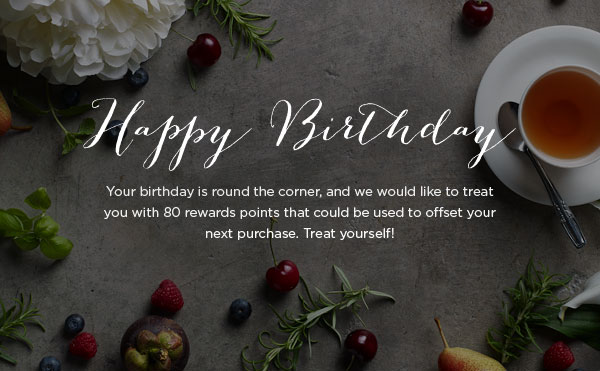
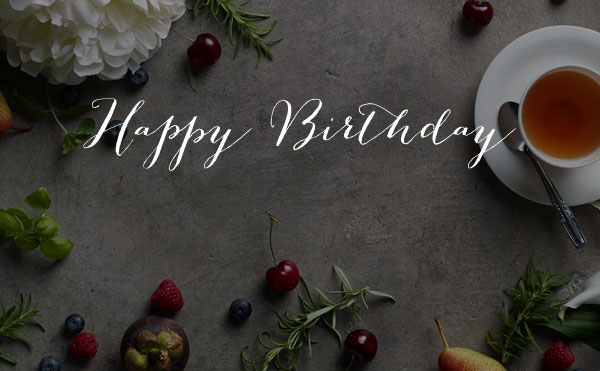
changes for emailer

Changed region(s): [[0.15, 0.504, 0.84, 0.6523]]

diff --git a/newmagento/app/locale/en_US/template/email/newsletter_subscr_confirm.html b/newmagento/app/locale/en_US/template/email/newsletter_subscr_confirm.html
@@ -1,4 +1,4 @@
-<!--@subject Newsletter subscription confirmation @-->
+<!--@subject Gryphon Tea Newsletters: Please Confirm Subscription @-->
 <!--@vars
 {"store url=\"\"":"Store Url",
 "var logo_url":"Email Logo Image Url",
@@ -24,7 +24,7 @@
                             <tr>
                                 <td class="padding-copy">
                                     <a href="#" target="_blank">
-                                        <img src="http://gryphontea.com/emailer/images/hero-subscribe-2.jpg" width="600" height="400" border="0" alt="Insert alt text here" style="display: block; color: #666666; font-family: Helvetica, arial, sans-serif; font-size: 16px; line-height: 20px;" class="img-max">
+                                        <img src="http://www.gryphontea.com/emailer/images/hero-subscribe-2.jpg" width="600" height="400" border="0" alt="Insert alt text here" style="display: block; color: #666666; font-family: Helvetica, arial, sans-serif; font-size: 16px; line-height: 20px;" class="img-max">
                                     </a>
                                 </td>
                             </tr>
@@ -36,8 +36,10 @@
                                             <td align="center" style="padding: 25px 0 0 0;" class="padding-copy">
                                                 <h2 style="font-family: 'Gotham-Medium', Tahoma, Helvetica, Arial, sans-serif; font-size: 14px; font-style:normal; font-weight:normal; line-height:20px; letter-spacing:0.03em; text-align:center; text-transform:uppercase; color: #252525; padding-top: 25px; margin-bottom: 0px;">Thank you for subscribing.</h2>
                                                 <hr style="width: 30px;height: 8px;border:none;border-bottom: 3px solid #ae4e0e;display: block;margin: 0 auto;">
-                                                <p style="font-family: 'Gotham-Book', Tahoma, Helvetica, Arial, sans-serif; color: #464646; font-size: 12px; line-height: 19px;text-align:center; margin-bottom:30px;">To begin receiving the newsletter, you must first confirm your subscription:</p>
-                                                <a href="{{var subscriber.getConfirmationLink()}}" style="padding: 7px 35px; font-size: 11px; line-height: 16px; font-family:  'Gotham-Medium', Tahoma, Helvetica, Arial, sans-serif; font-weight: normal; color: #ffffff; text-decoration: none; background-color: #252525;  display: inline-block;"><span>Confirm Subscription</span></a>
+                                                <p style="font-family: 'Gotham-Book', Tahoma, Helvetica, Arial, sans-serif; color: #464646; font-size: 12px; line-height: 19px;text-align:center; margin-bottom:30px;">To begin receiving the newsletter, please confirm your subscription.</p>
+                                                <a href="{{var subscriber.getConfirmationLink()}}" style="padding: 7px 35px; font-size: 11px; line-height: 16px; font-family:  'Gotham-Medium', Tahoma, Helvetica, Arial, sans-serif; font-weight: normal; color: #ffffff; text-decoration: none; background-color: #252525;  display: inline-block;"><span>Yes, subscribe me to this list.</span></a>
+                                                <p style="font-family: 'Gotham-Book', Tahoma, Helvetica, Arial, sans-serif; color: #464646; font-size: 12px; line-height: 19px;text-align:center; margin-bottom:30px; margin-top: 30px;">If you have received this email by mistake, no worries, simply ignore this message. Without this confirmation, you will not receive any newsletters.</p>
+                                                <p style="font-family: 'Gotham-Book', Tahoma, Helvetica, Arial, sans-serif; color: #464646; font-size: 12px; line-height: 19px;text-align:center; margin-bottom:30px;">For questions about this list, please email to <a href="mailto:teabits@gryphontea.com" style="color: #ae4e0e; text-decoration: none;">teabits@gryphontea.com</a></p>
                                             </td>
                                         </tr>
                                     </table>     

diff --git a/newmagento/app/locale/en_US/template/email/j2trewardbirthday.html b/newmagento/app/locale/en_US/template/email/j2trewardbirthday.html
@@ -1,4 +1,4 @@
-<!--@subject Reward points birthday for {{var user.name}} @-->
+<!--@subject Celebrate Your Birthday With An Additional 80 Rewards Points @-->
 <!--@styles
 body,td { color:#2f2f2f; font:11px/1.35em Verdana, Arial, Helvetica, sans-serif; }
 @-->
@@ -16,7 +16,7 @@ body,td { color:#2f2f2f; font:11px/1.35em Verdana, Arial, Helvetica, sans-serif;
                             <tr>
                                 <td class="padding-copy">
                                     <a href="#" target="_blank">
-                                        <img src="http://www.gryphontea.com/emailer/images/hero-birthday.jpg" width="600" height="400" border="0" alt="Insert alt text here" style="display: block; color: #666666;  font-family: Helvetica, arial, sans-serif; font-size: 16px; line-height: 20px;" class="img-max">
+                                        <img src="http://www.gryphontea.com/emailer/images/hero-prebirthday.jpg" width="600" height="400" border="0" alt="Insert alt text here" style="display: block; color: #666666;  font-family: Helvetica, arial, sans-serif; font-size: 16px; line-height: 20px;" class="img-max">
                                     </a>
                                 </td>
                             </tr>
@@ -26,9 +26,10 @@ body,td { color:#2f2f2f; font:11px/1.35em Verdana, Arial, Helvetica, sans-serif;
                                     <table width="100%" border="0" cellspacing="0" cellpadding="0">
                                         <tr>
                                             <td>                                                
-                                                <h2 style="font-family: 'Gotham-Medium', Tahoma, Helvetica, Arial, sans-serif; font-size: 14px; font-style:normal; font-weight:normal; line-height:20px; letter-spacing:0.03em; text-align:center; text-transform:uppercase; color: #252525; padding-top: 40px;">{{var user.name}}'s birthday greeting</h2>
+                                                <h2 style="font-family: 'Gotham-Medium', Tahoma, Helvetica, Arial, sans-serif; font-size: 14px; font-style:normal; font-weight:normal; line-height:20px; letter-spacing:0.03em; text-align:center; text-transform:uppercase; color: #252525; padding-top: 40px;margin-bottom: 0px;">{{var user.name}}'s birthday greeting</h2>
                                                 <hr style="width: 30px;height: 8px;border:none;border-bottom: 3px solid #ae4e0e;display: block;margin: 0 auto;">
-                                                <p style="font-family: 'Gotham-Book', Tahoma, Helvetica, Arial, sans-serif; color: #464646; font-size: 12px; line-height: 19px;text-align:center;">We would like to celebrate your birthday with you in advance! This is our gift from <br> Gryphon. Please login and check that you have received these {{var points}} points and reward <br> yourself with your favourite tea.</p>
+                                                <p style="font-family: 'Gotham-Book', Tahoma, Helvetica, Arial, sans-serif; color: #464646; font-size: 12px; line-height: 19px;text-align:center;">Your birthday is round the corner, and we would like to treat you with 80 rewards points that could be used to offset your next purchase. Treat yourself!</p>
+                                                <p style="font-family: 'Gotham-Book', Tahoma, Helvetica, Arial, sans-serif; color: #464646; font-size: 12px; line-height: 19px;text-align:center;">Please login and check that you have received these 80 points and pamper yourself with your favourite brew.</p>
                                             </td>
                                         </tr>
                                     </table>

diff --git a/newmagento/skin/frontend/gryphon/gryphon_theme/css/mobile-style.css b/newmagento/skin/frontend/gryphon/gryphon_theme/css/mobile-style.css
@@ -1572,12 +1572,15 @@ html {
   -webkit-animation: simpleAlphaIn 0.5s both cubic-bezier(0.7, 0, 0.3, 1);
   animation: simpleAlphaIn 0.5s both cubic-bezier(0.7, 0, 0.3, 1);
 }
-.is-ie #page-wrapper #header-wrapper .marquee p span.flip.up {
+.is-ie #page-wrapper #header-wrapper .marquee div span.flip.up {
   -webkit-transform: none !important;
   -moz-transform: none !important;
   -o-transform: none !important;
   -ms-transform: none !important;
   transform: none !important;
+}
+.is-ie #page-wrapper #header-wrapper .marquee div span.flip.up .front {
+  position: static!important;
 }
 #main-mobile-header {
   width: 100%;
@@ -5113,6 +5116,12 @@ html {
   .blog #all-posts .post-extra-content {
     display: none;
   }
+  .blog .main-content.single #all-posts .post-content .mobile-readmore-button {
+    display: none;
+  }
+  .blog .main-content.single #all-posts .post-content .mobile-part-02 {
+    display: block !important;
+  }
 }
 .custom-product-carousel .custom-product-carousel-item img {
   width: 100%;
@@ -5125,14 +5134,14 @@ html {
   display: none !important;
 }
 @media (max-width: 991px) {
-  body.blog {
+  .blog {
     padding-bottom: 0px!important;
   }
-  body.blog .main-content .image-text-content .posts {
+  .blog .main-content .image-text-content .posts {
     padding-right: 0px;
     border-right: none;
   }
-  body.blog .main-content .image-text-content .post .post-content img {
+  .blog .main-content .image-text-content .post .post-content img {
     height: auto;
   }
 }
@@ -5300,7 +5309,6 @@ html {
   }
   .account .order-history .single-order-item .mobile-button-container .single-order-item-back-button {
     text-align: left;
-    padding-left: 30px;
   }
   .account .order-history .single-order-item .mobile-button-container .single-order-item-reorder-button {
     text-align: right;

diff --git a/newmagento/skin/frontend/gryphon/gryphon_theme/css/style.css b/newmagento/skin/frontend/gryphon/gryphon_theme/css/style.css
@@ -520,8 +520,9 @@ ul.messages {
   background: #f6f4f1;
   padding: 1px 0;
   text-align: center;
+  height: 30px;
 }
-#page-wrapper #header-wrapper .marquee p {
+#page-wrapper #header-wrapper .marquee div {
   font-family: 'Gotham-Medium', Verdana, sans-serif;
   font-weight: 200;
   font-style: normal;
@@ -1521,6 +1522,12 @@ p {
 }
 .my-arrow-right {
   background: url('../images/icons/arrow-right.png') no-repeat;
+  width: 12px;
+  height: 11px;
+  display: inline-block;
+}
+.my-arrow-left {
+  background: url('../images/icons/arrow-left.png') no-repeat;
   width: 12px;
   height: 11px;
   display: inline-block;

diff --git a/newmagento/app/locale/en_US/template/email/account_password_reset_confirmation.html b/newmagento/app/locale/en_US/template/email/account_password_reset_confirmation.html
@@ -1,4 +1,4 @@
-<!--@subject Password Reset Confirmation for {{var customer.name}} @-->
+<!--@subject Password Reset for {{var customer.name}} @-->
 <!--@vars
 {"store url=\"\"":"Store Url",
 "var logo_url":"Email Logo Image Url",
